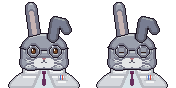
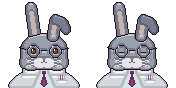
Montaż: ucho Macieja jak lewe, szerszy krawat, cała ręka Jani przy pisaniu, finał z żurawiem i wywrotką, obserwatorium bez ciemnego dachu w tle
Claude-Session: https://claude.ai/code/session_01AApWJ5vAAocyN6ZrWVUcqc

diff --git a/tools/art/cutscene.js b/tools/art/cutscene.js
@@ -113,19 +113,20 @@ function sitting(fr, f) {
     b.pset(x, y, edge ? INKC : spine ? [196, 200, 214] : y % 2 ? [236, 240, 248] : [210, 218, 236]);
   }
   for (let x = 19; x < 19 + f; x++) b.pset(x, 34, [120, 130, 160]);                       // świeża linijka pisma
-  const px = 20 + f, py = 33;                                                               // łapka z ołówkiem w jednym miejscu
-  for (let k = 1; k < 5; k++) b.pset(px + k, py - k, k === 4 ? [236, 140, 150] : [240, 200, 80]);
-  b.pset(px, py + 1, [60, 52, 60]);
-  for (let y = py - 2; y <= py + 2; y++) for (let x = px - 3; x <= px + 2; x++) {
-    const e = ((x - px + 0.5) / 2.6) ** 2 + ((y - py) / 2.1) ** 2;
-    if (e <= 1) b.pset(x, y, e > 0.5 ? INKC : [244, 222, 190]);
-  }
+  const px = 20 + f, py = 33, JR = require("./jania.js").R;                               // cała ręka od ramienia do zeszytu
+  const arm = new P.Buf(b.w, b.h);
+  P.solid(arm, [P.cap(23.8, 26, px + 0.5, py - 0.5, 2, 1.7)], JR.fur, TOP);
+  P.solid(arm, [P.ell(px, py, 2.2, 1.9)], JR.cream, TOP);
+  const ai = ink(arm);
+  for (let y = 0; y < b.h; y++) for (let x = 0; x < b.w; x++) { const c = ai.get(x + 1, y + 1); if (c >>> 24) b.px[y * b.w + x] = c; }
+  for (let k = 1; k < 5; k++) b.pset(px - 1 + k, py - 1 - k, k === 4 ? [236, 140, 150] : [240, 200, 80]); // ołówek w łapce
+  b.pset(px - 1, py + 1, [60, 52, 60]);
   return b;
 }
 const jbb = P.bounds(jania.frames[16]);
 const jb = (f) => P.crop(jania.frames[16 + (f ? 7 : 0)], jbb.x, jbb.y - 1, jbb.w, jbb.h + 1);  // rząd 2 = tył; 7. kolumna = oddech
 // obserwatorium po drugiej stronie jeziora: białe, odnowione, kopuła otwarta, gruby teleskop wystaje przez szczelinę
-function observatory() {
+function observatory(closed = false) {  // closed: teleskop wyjęty, okna i drzwi zabite deskami
   const b = new P.Buf(80, 64);
   const white = P.hueRamp(4, { hue: 214, shift: 22, sat: 0.12, light: [0.52, 0.94] });
   const steel = P.hueRamp(4, { hue: 222, shift: 20, sat: 0.14, light: [0.3, 0.78] });
@@ -136,17 +137,75 @@ function observatory() {
   P.solid(dome, [P.ell(40, 35, 17, 16)], white, { light: [-0.5, -0.7, 0.5] });                               // kopuła: tylko półkula nad dachem
   for (let y = 0; y < 35; y++) for (let x = 0; x < 80; x++) { const u = dome.get(x, y); if (u >>> 24) b.px[y * 80 + x] = u; }
   for (let y = 18; y < 35; y++) for (let x = 35; x <= 45; x++) if (((x - 40) / 17) ** 2 + ((y - 35) / 16) ** 2 <= 1) b.pset(x, y, night); // otwarta szczelina
-  P.solid(b, [P.cap(40, 31, 55, 11, 2.4, 5.2)], steel, { light: [-0.5, -0.7, 0.5] });                        // teleskop: stożek rozszerza się ku obiektywowi
-  P.solid(b, [P.cap(55, 11, 56.5, 9, 5.4, 5.4)], white, { light: [-0.5, -0.7, 0.5] });                       // pierścień obiektywu
-  for (const wx of [10, 20, 52, 62]) {                                                                       // okna: świeci się
+  if (!closed) {
+    P.solid(b, [P.cap(40, 31, 55, 11, 2.4, 5.2)], steel, { light: [-0.5, -0.7, 0.5] });                      // teleskop: stożek rozszerza się ku obiektywowi
+    P.solid(b, [P.cap(55, 11, 56.5, 9, 5.4, 5.4)], white, { light: [-0.5, -0.7, 0.5] });                     // pierścień obiektywu
+  }
+  for (const wx of [10, 20, 52, 62]) {                                                                       // okna: świecą się albo są ciemne
     for (let y = 43; y < 50; y++) for (let x = wx; x < wx + 7; x++) b.pset(x, y, steel[1]);
-    for (let y = 44; y < 49; y++) for (let x = wx + 1; x < wx + 6; x++) b.pset(x, y, y > 46 ? warmD : warm);
+    for (let y = 44; y < 49; y++) for (let x = wx + 1; x < wx + 6; x++) b.pset(x, y, closed ? night : y > 46 ? warmD : warm);
     for (let y = 44; y < 49; y++) b.pset(wx + 3, y, steel[1]);
   }
   for (let y = 50; y < 64; y++) for (let x = 35; x < 46; x++) b.pset(x, y, x === 35 || x === 45 || y === 50 ? steel[1] : steel[2]); // drzwi
-  b.pset(43, 57, warm); for (let x = 38; x < 43; x++) b.pset(x, 48, warm);                                   // klamka, lampka nad drzwiami
+  if (!closed) { b.pset(43, 57, warm); for (let x = 38; x < 43; x++) b.pset(x, 48, warm); }                  // klamka, lampka nad drzwiami
+  const WOOD = [[138, 106, 72], [168, 132, 90], [70, 50, 38]];
+  const plank = (x0, y0, x1, y1) => {  // deska 2 px: jasny wierzch, ciemny spód
+    const n = Math.max(Math.abs(x1 - x0), Math.abs(y1 - y0));
+    for (let i = 0; i <= n; i++) { const x = Math.round(x0 + (x1 - x0) * i / n), y = Math.round(y0 + (y1 - y0) * i / n); b.pset(x, y, WOOD[1]); b.pset(x, y + 1, WOOD[0]); b.pset(x, y + 2, WOOD[2]); }
+  };
+  if (closed) {
+    for (const wx of [10, 20, 52, 62]) { plank(wx - 1, 43, wx + 7, 43); plank(wx - 1, 47, wx + 7, 47); }
+    plank(34, 51, 46, 61); plank(34, 59, 46, 51); plank(34, 55, 46, 55);
+  }
   for (let x = 32; x < 49; x++) b.pset(x, 63, white[1]);                                                    // schodek
   return ink(P.smoothEdge(b));  // gładka sylwetka przed obrysem: bez ząbków na kopule i tubusie
+}
+// żurawie i auta: żółte z czarnym (referencje autora), skala: drzwi obserwatorium 14 px = ok. 2 m
+const YEL = [[250, 196, 44], [222, 156, 26], [156, 100, 22]], BLK = [32, 30, 36], GRY = [96, 98, 108];
+// żuraw wieżowy: kratownicowa wieża na czarnej podstawie, kabina, wysięgnik w prawo, przeciwwysięgnik z balastem,
+// iglica z odciągami. Wózek, lina i hak rysuje gra. Podstawa wieży w (40, 128), wysięgnik na y 18–22.
+function crane() {
+  const W = 190, G = 128, b = new P.Buf(W, G + 2);
+  const line = (x0, y0, x1, y1, c) => { const n = Math.max(Math.abs(x1 - x0), Math.abs(y1 - y0)); for (let i = 0; i <= n; i++) b.pset(Math.round(x0 + (x1 - x0) * i / n), Math.round(y0 + (y1 - y0) * i / n), c); };
+  line(40, 2, 12, 18, GRY); line(40, 2, 120, 18, GRY);                                   // odciągi
+  for (let y = 30; y < G - 8; y += 8) { line(37, y, 44, y + 4, YEL[0]); line(44, y + 4, 37, y + 8, YEL[0]); } // wieża: kratownica
+  for (let y = 26; y < G - 8; y++) { b.pset(36, y, YEL[1]); b.pset(37, y, YEL[2]); b.pset(44, y, YEL[1]); b.pset(45, y, YEL[2]); }
+  line(32, G, 36, G - 8, BLK); line(49, G, 45, G - 8, BLK); line(32, G, 49, G - 8, BLK); line(49, G, 32, G - 8, BLK); // podstawa
+  for (let x = 30; x <= 51; x++) { b.pset(x, G, BLK); b.pset(x, G + 1, BLK); }
+  for (let x = 34; x <= 47; x++) b.pset(x, G - 8, BLK);
+  line(36, 18, 40, 2, YEL[1]); line(45, 18, 41, 2, YEL[1]); line(37, 12, 44, 12, YEL[1]); line(38, 7, 43, 7, YEL[1]); // iglica
+  for (const [x0, x1] of [[4, 34], [46, 186]]) {                                           // wysięgniki: pasy i krzyżulce
+    for (let x = x0; x <= x1; x++) { b.pset(x, 18, YEL[0]); b.pset(x, 22, YEL[2]); }
+    for (let x = x0; x < x1; x += 6) { line(x, 22, x + 3, 18, YEL[1]); line(x + 3, 18, x + 6, 22, YEL[1]); }
+  }
+  line(186, 18, 186, 22, YEL[1]);
+  for (let y = 23; y < 30; y++) for (let x = 4; x < 16; x++) b.pset(x, y, y === 23 ? [120, 122, 132] : GRY); // balast
+  for (let y = 16; y < 28; y++) for (let x = 33; x < 48; x++) b.pset(x, y, y < 18 ? YEL[0] : YEL[1]);       // kabina
+  for (let y = 19; y < 23; y++) for (let x = 41; x < 46; x++) b.pset(x, y, [60, 84, 110]);
+  for (let x = 34; x < 47; x++) { b.pset(x, 28, BLK); b.pset(x, 29, BLK); }                            // obrotnica
+  return b;
+}
+// wywrotka z boku (w prawo): żółta skrzynia w pasy, kabina z szybą, czarne koła z żółtymi felgami; 60x30
+function truck() {
+  const b = new P.Buf(62, 31);
+  for (let y = 20; y < 25; y++) for (let x = 4; x < 60; x++) b.pset(x, y, y < 22 ? [84, 82, 90] : [60, 58, 66]); // podwozie
+  for (let y = 4; y < 21; y++) { const x0 = 2 + Math.floor((y - 4) / 4), x1 = 37 - Math.floor((y - 4) / 8); for (let x = x0; x < x1; x++) b.pset(x, y, y === 4 ? YEL[0] : (x - y) % 8 < 4 ? YEL[0] : YEL[1]); } // skrzynia
+  for (let y = 6; y < 23; y++) for (let x = 39; x < 57; x++) { const nose = x > 52 && y < 12 + (x - 52); if (!nose) b.pset(x, y, y > 18 ? YEL[1] : YEL[0]); } // kabina
+  for (let y = 8; y < 14; y++) for (let x = 43; x < 52; x++) b.pset(x, y, x > 48 ? [96, 150, 170] : [60, 84, 110]); // szyba
+  for (let y = 17; y < 24; y++) for (let x = 56; x < 60; x++) b.pset(x, y, YEL[1]);                       // zderzak
+  for (const wx of [13, 47]) for (let y = 18; y < 31; y++) for (let x = wx - 6; x <= wx + 6; x++) {   // koła
+    const d = Math.hypot(x - wx, y - 24.5);
+    if (d <= 6.2) b.pset(x, y, d < 2.6 ? YEL[0] : d < 3.4 ? YEL[2] : BLK);
+  }
+  return ink(b);
+}
+// teleskop wyjęty z kopuły: leżący stożek z pierścieniem obiektywu (wisi na linie żurawia)
+function scope() {
+  const b = new P.Buf(34, 14), steel = P.hueRamp(4, { hue: 222, shift: 20, sat: 0.14, light: [0.3, 0.78] });
+  const white = P.hueRamp(4, { hue: 214, shift: 22, sat: 0.12, light: [0.52, 0.94] });
+  P.solid(b, [P.cap(3, 7, 26, 7, 2.4, 5)], steel, TOP);
+  P.solid(b, [P.cap(27, 7, 29, 7, 5.3, 5.3)], white, TOP);
+  return ink(P.smoothEdge(b));
 }
 // drzwi balkonowe zamknięte, takie same jak w pokoju (jasne drewno, 4 szybki, ceglasta płycina);
 // od strony balkonu szybki świecą ciepło, bo w mieszkaniu pali się światło
@@ -178,6 +237,10 @@ P.save(strip([teen[16], teen[23]]), out + "/cut_teen_back.png");
 const T = (janiaAt(0.95), require("./jania.js"));
 P.save(strip([0, 1, 2, 3, 4].map((f) => T.frame(1, f, { carry: true }))), out + "/cut_teen_walk.png");
 P.save(observatory(), out + "/cut_observatory.png");
+P.save(observatory(true), out + "/cut_observatory_closed.png");
+P.save(crane(), out + "/cut_crane.png");
+P.save(truck(), out + "/cut_truck.png");
+P.save(scope(), out + "/cut_scope.png");
 P.save(door(), out + "/cut_door.png");
 const pk = (fr) => P.pack(fr, { cols: fr.length, pad: 0 });
 P.save(pk([jb(0), jb(1)]), out + "/cut_jania_back.png");

diff --git a/tools/art/portraits.js b/tools/art/portraits.js
@@ -100,14 +100,16 @@ function maciej(blink = false) {
   c.add("collar", (x, y) => y > 67 && y < 76 && Math.abs(x - CX) < 21, coat, { group: "body", raw: true }); // ramiona tuż pod policzkami
   c.add("shirt", (x, y) => y > 70 && Math.abs(x - CX) < (y - 70) * 0.45 + 2.5, shirt, { group: "body", flat: true, raw: true });
   // krawat: wąski węzeł, klinga lekko się rozszerza, szpiczasty koniec
-  const tw = (y) => (y < 74 ? 2 : y < 79 ? 1.5 : y < 84 ? 2.5 : 2.5 - (y - 84) * 0.9);
+  const tw = (y) => (y < 74 ? 2 : y < 77 ? 1.5 : y < 84 ? 1.5 + (y - 77) * 0.32 : 3.7 - (y - 84) * 1.2);
   c.add("tie", (x, y) => y > 70.5 && y < 87 && Math.abs(x - CX) < tw(y), ramp(2, { hue: 322, shift: 12, sat: 0.55, light: [0.3, 0.42] }), { group: "body", raw: true });
   for (let x = 42; x < 46; x++) c.set(x, 73, [96, 28, 70]);                 // dół węzła
   c.add("earL", cap(35, 36, 31, 8, 5.5), fur, { group: "ears" });
   c.add("earLi", cap(34.6, 33, 31.6, 13, 2.4), pinkE, { group: "ears", flat: true });
   c.add("head", or(sup(CX, 52, 23, 18, 2.4), ell(31, 62, 11, 9), ell(57, 62, 11, 9)), fur, { group: "head" });
   c.add("muzzle", or(ell(40, 63, 6.5, 5.2), ell(48, 63, 6.5, 5.2)), light, { group: "head", flat: true });
-  c.add("lop", or(cap(53, 37, 55.5, 22, 5), cap(55.5, 22, 63.5, 24, 5), cap(63.5, 24, 66.5, 30, 4.6)), furD, { group: "ears" }); // drugie ucho: nasada za głową jak pierwsze, zgina się wysoko, krótki płat opada
+  c.add("earR", cap(53, 36, 55.6, 21, 5.5), fur, { group: "ears" });      // drugie ucho: nasada lustrzana do lewego, za głową
+  c.add("earRi", cap(53.4, 33, 55.4, 22, 2.4), pinkE, { group: "ears", flat: true });
+  c.add("lop", or(cap(55.6, 20, 63, 23, 5), cap(63, 23, 66, 29.5, 4.6)), furD, { group: "ears" }); // zgina się wysoko, krótki płat opada
   // oczy (brązowe), okulary okrągłe, nos, pyszczek, wąsy
   for (const ex of [31, 53]) eye(c, ex, 48, 5, 6, [44, 24, 18], [124, 74, 40], blink ? fur[1] : null);  // środek oka = środek szkła
   for (const ocx of [33, 55]) ring(c, ocx, 51, 6, INK);                     // okrągłe okulary, obręcz 1 px
